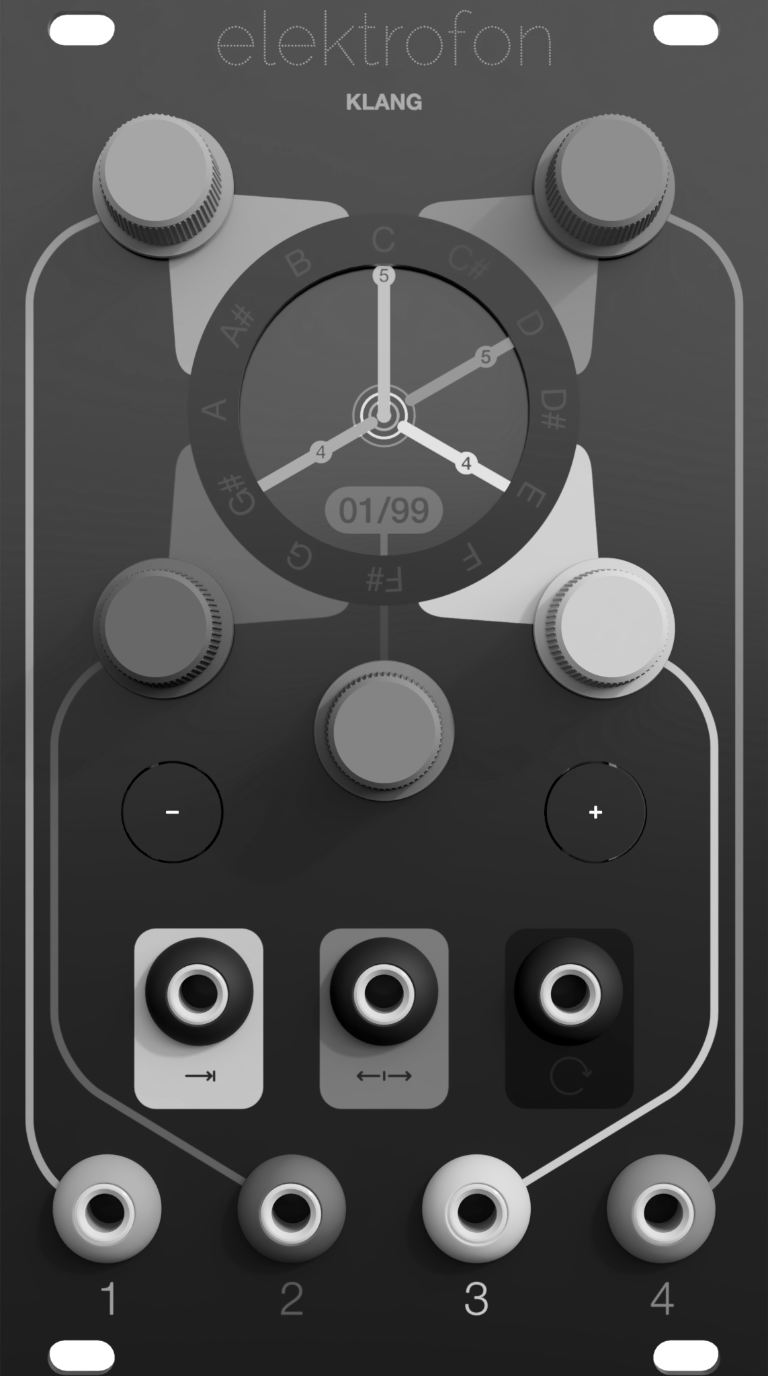
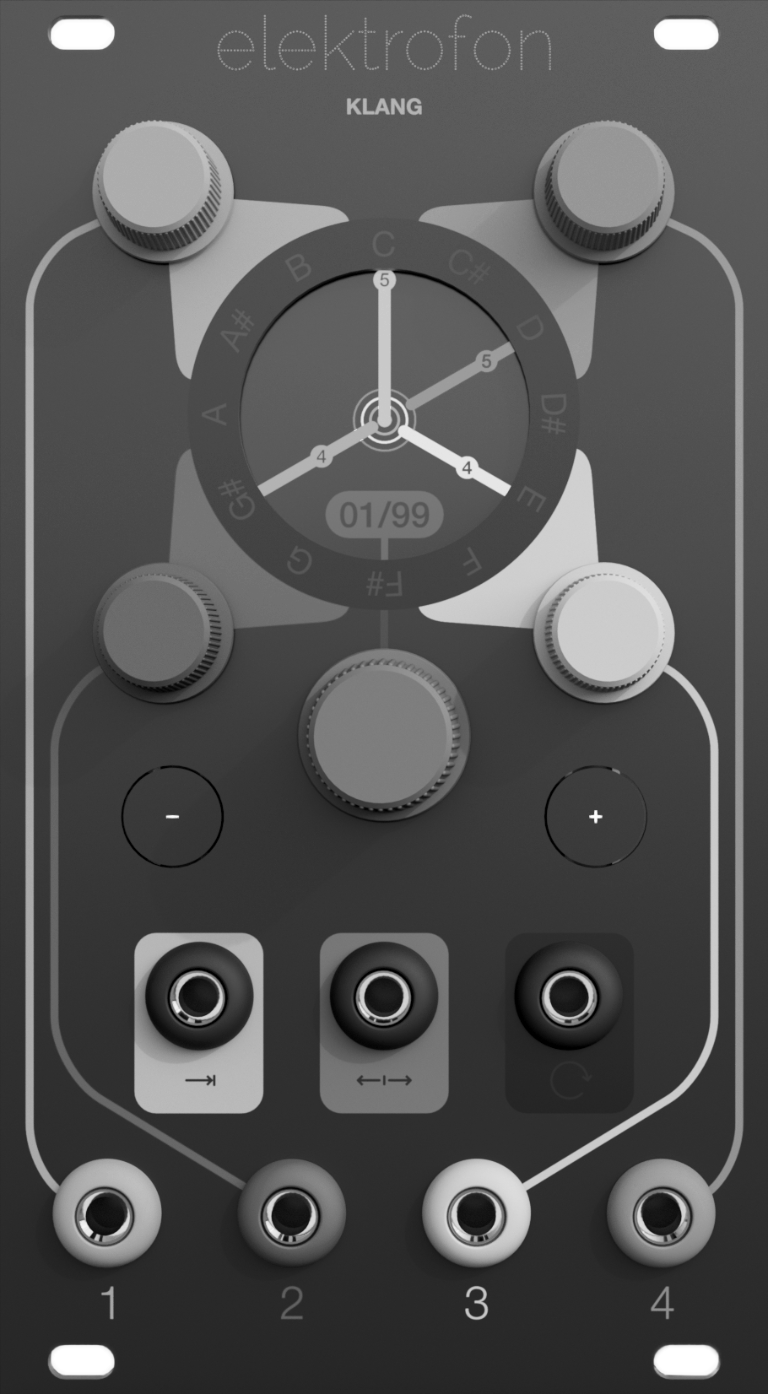
New images

diff --git a/styles/main.css b/styles/main.css
@@ -233,7 +233,7 @@ i {
 .klang-mockup img {
 	display: block;
 	position: absolute;
-	bottom: -9%;
+	bottom: -5%;
 	left: 50%;
 	height: 75%;
 	opacity: 0;
